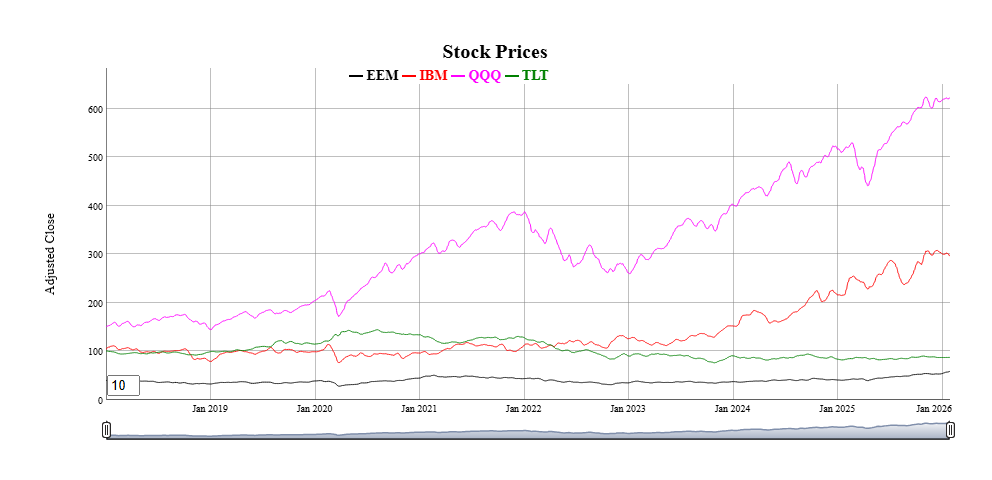
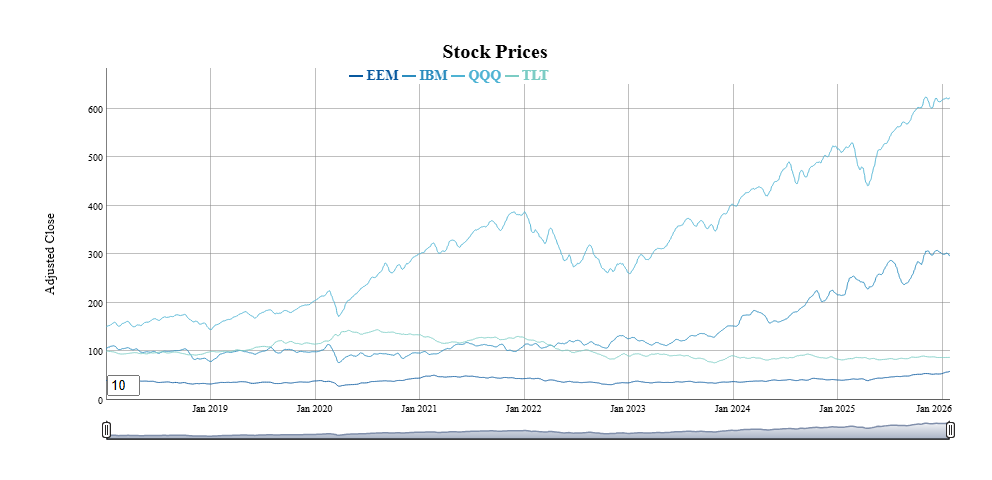
Fix README

diff --git a/README.md b/README.md
@@ -212,7 +212,6 @@ head(example_fcst_set,2)
 #>        <Date>     <ts>    <num>    <num>     <ts>    <num>    <num>
 #> 1: 2026-01-31 622.6611 615.9843 629.3379 306.9482 301.3265 312.5699
 #> 2: 2026-02-01 622.9118 613.7795 632.0441 307.1080 299.3237 314.8924
-
 fgts_dygraph(smalldta,title="With Forecasts", dtstartfrac=0.7,forecast_ds=example_fcst_set)
 #> Assigning:    indtnew(808;9) data.table;data.frame from --notrace-->
 #> Assigning:  alltitles() character from --notrace-->
@@ -229,7 +228,7 @@ outputs into the appropriate `foreast_ds` forms
 | Function | Description |
 |:---|:---|
 | `fg_sweep()` | Converts [tidy forecast objects](https://business-science.github.io/sweep/) to `forecast_ds` form. |
-| `fg_forecast()` | Converts [tidy forecast objects](https://pkg.robjhyndman.com/forecast/) to `forecast_ds` form. |
+| `fg_forecast()` | Converts [forecasts](https://pkg.robjhyndman.com/forecast/) to `forecast_ds` form. |
 
 ## Changing colors and adding dates of interest
 
@@ -240,23 +239,15 @@ for the first 5 series.
 
 ``` r
 fg_get_colors("lines",n_max=3) -> oldcolors
-fg_update_colors( oldcolors[,let(color=  rev(RColorBrewer::brewer.pal(8,"GnBu"))[1:5])][] )
-#> Warning in `[.data.table`(oldcolors, , let(color =
-#> rev(RColorBrewer::brewer.pal(8, : Coercing 'list' RHS to 'character' to match
-#> the type of column 3 named 'color'.
+fg_update_colors( oldcolors[,let(color=  rev(RColorBrewer::brewer.pal(8,"GnBu"))[1:3])][] )
 #> Saved Colors of interest file to C:\Users\DFH\AppData\Local/R/cache/R/FinanceGraphs/fg_colors.RD
 fg_get_colors("lines",n_max=3)
 #> Key: <category, variable>
-#>    category variable                                                    color
-#>      <char>   <char>                                                   <char>
-#> 1:    lines      D01 c("#08589E", "#2B8CBE", "#4EB3D3", "#7BCCC4", "#A8DDB5")
-#> 2:    lines      D02 c("#08589E", "#2B8CBE", "#4EB3D3", "#7BCCC4", "#A8DDB5")
-#> 3:    lines      D03 c("#08589E", "#2B8CBE", "#4EB3D3", "#7BCCC4", "#A8DDB5")
-#>     const
-#>    <lgcl>
-#> 1:     NA
-#> 2:     NA
-#> 3:     NA
+#>    category variable   color  const
+#>      <char>   <char>  <char> <lgcl>
+#> 1:    lines      D01 #08589E     NA
+#> 2:    lines      D02 #2B8CBE     NA
+#> 3:    lines      D03 #4EB3D3     NA
 ```
 
 New dates of interest used for the `events` parameter can also be added.
@@ -268,17 +259,15 @@ Resetting the lists (and colors) can also be done.
 newdoi <-data.table(category="fedmoves",eventid="F:-50",DT_ENTRY=as.Date("6/16/2026",format="%m/%d/%Y"))
 fg_update_dates_of_interest(newdoi)
 #> Saved dates of interest file to C:\Users\DFH\AppData\Local/R/cache/R/FinanceGraphs/fg_doi.RD
-tail(fg_get_dates_of_interest("fedmoves"),3)
+tail(fg_get_dates_of_interest("fedmoves"),2)
 #> Key: <category, DT_ENTRY>
 #>    category eventid eventid2   DT_ENTRY END_DT_ENTRY  color strokePattern
 #>      <char>  <char>   <char>     <Date>       <Date> <char>        <char>
-#> 1: fedmoves   F:-25     rt:4 2025-10-29   2025-10-29   <NA>          <NA>
-#> 2: fedmoves   F:-25  rt:3.75 2025-12-10   2025-12-10   <NA>          <NA>
-#> 3: fedmoves   F:-50     <NA> 2026-06-16   2026-06-16   <NA>          <NA>
+#> 1: fedmoves   F:-25  rt:3.75 2025-12-10   2025-12-10   <NA>          <NA>
+#> 2: fedmoves   F:-50     <NA> 2026-06-16   2026-06-16   <NA>          <NA>
 #>       loc
 #>    <char>
 #> 1:   <NA>
 #> 2:   <NA>
-#> 3:   <NA>
 fg_reset_to_default_state()
 ```
